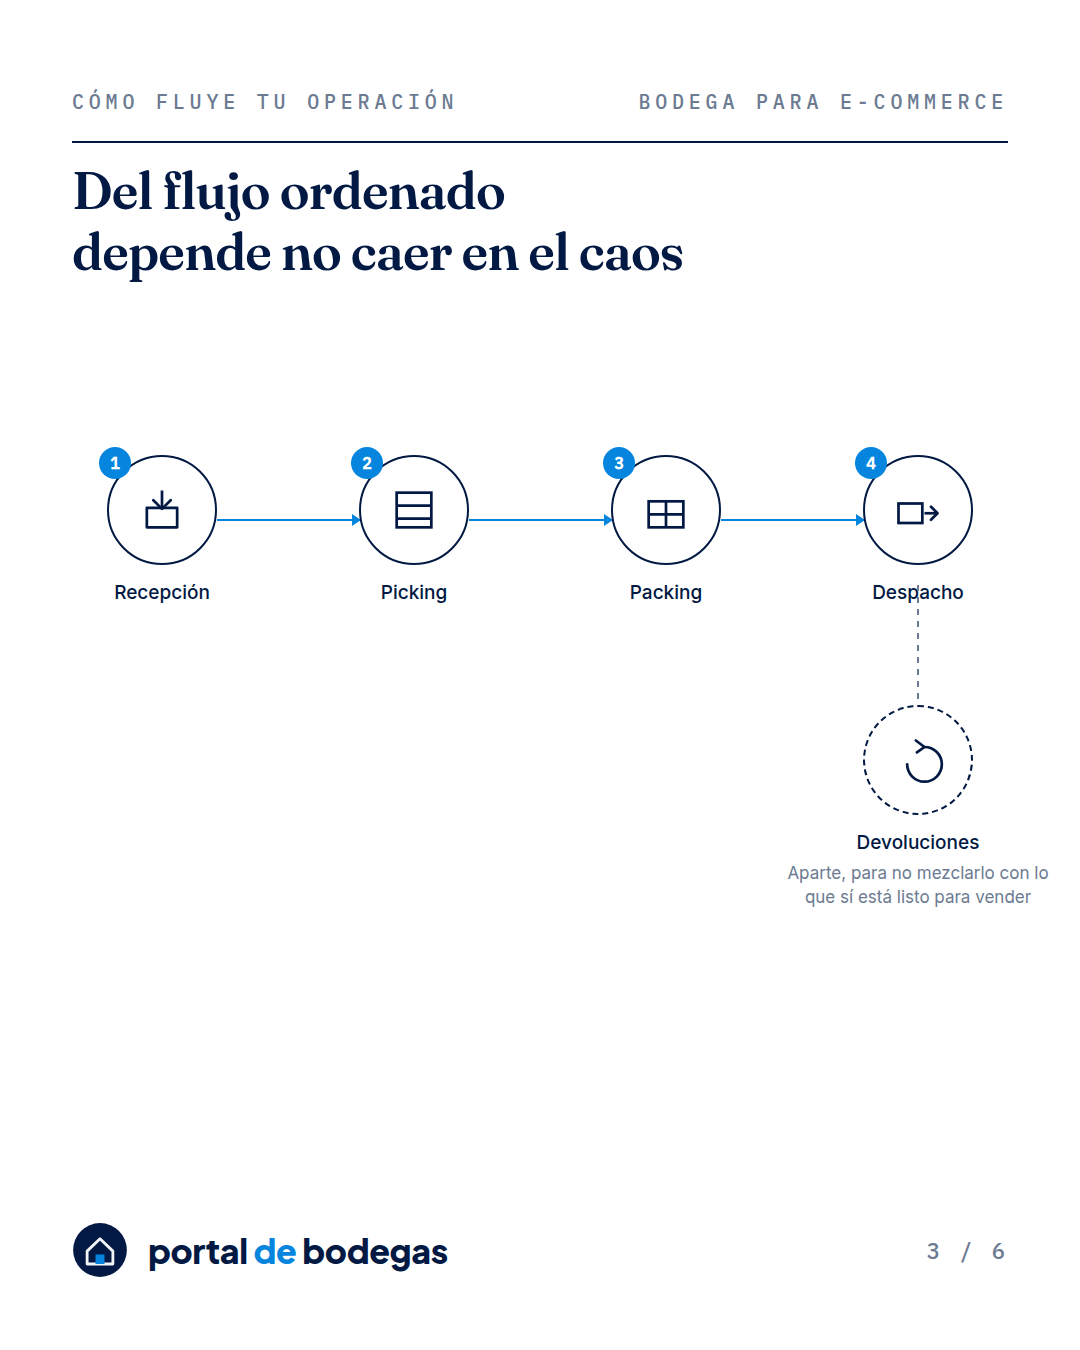
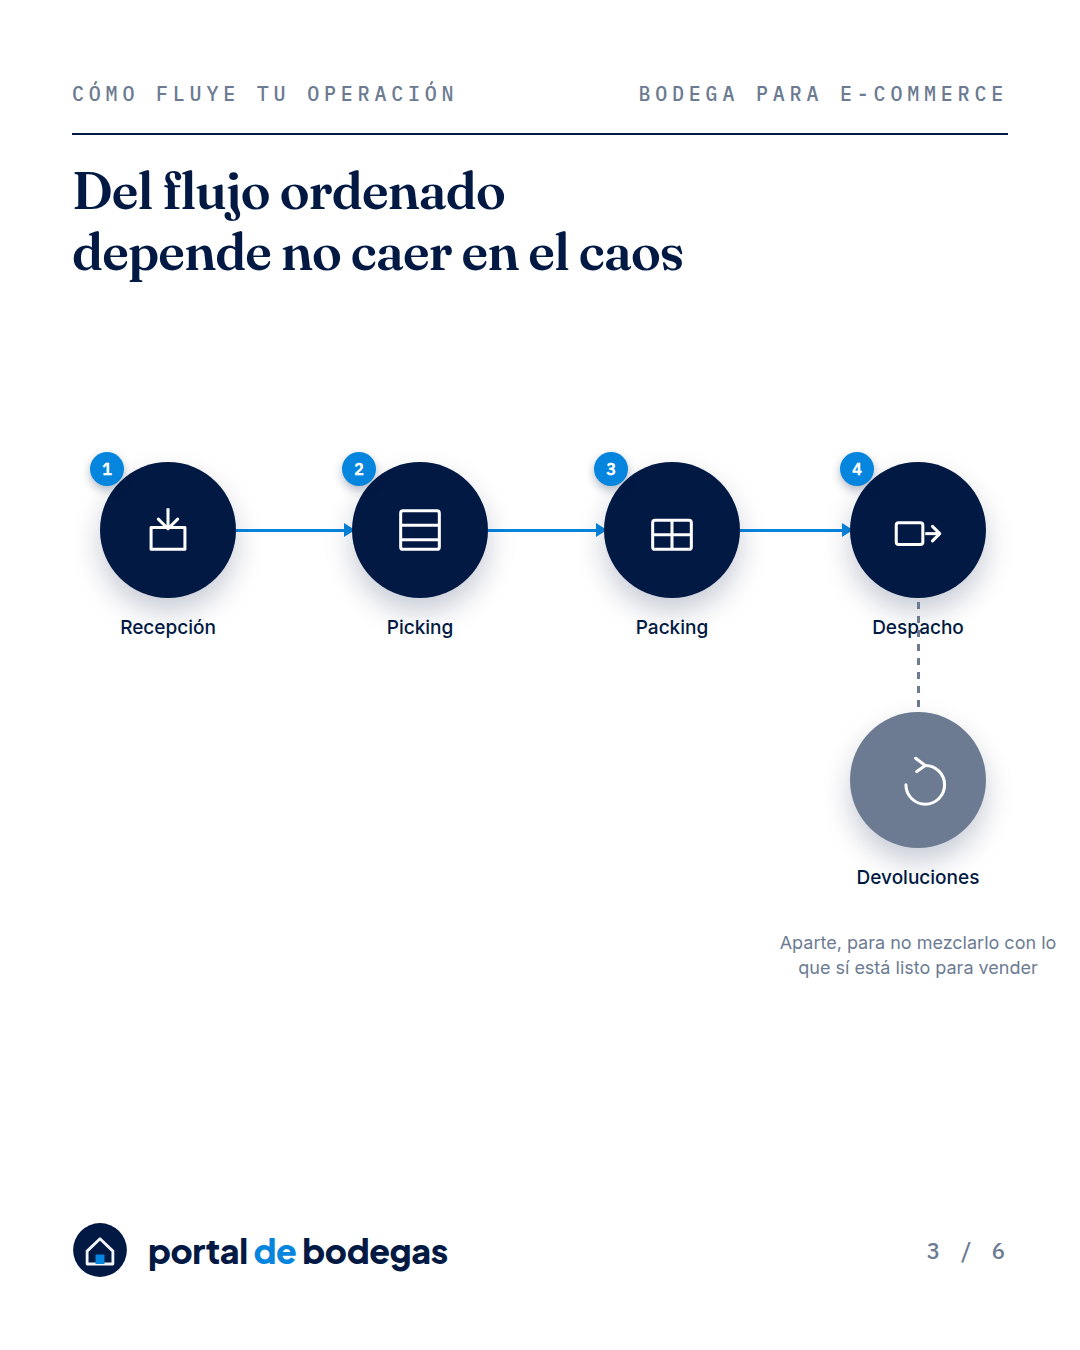
Mockup v2: círculos de color sólido en vez de contornos finos
El feedback fue que el v1 se veía "arcaico" y con demasiado blanco.
Fix: nodos e íconos ahora son círculos de color sólido con sombra
suave (mismo lenguaje del badge "VS" de marketing/versus) en vez de
contornos huecos; la tarjeta de capacidad pasa de recuadros punteados
a tarjetas con relleno; se agregan líneas conectoras verticales en la
slide de pasos para no dejar aire muerto entre filas.

Claude-Session: https://claude.ai/code/session_01W7a3UqdkMrKs5FYEeECdXB

diff --git a/marketing/mockups/ecommerce-set.js b/marketing/mockups/ecommerce-set.js
@@ -1,8 +1,8 @@
-// Mockup de dirección completo: "diagrama institucional" — fondo blanco,
-// nodos/figuras conectadas en vez de foto+scrim o pantalla partida.
-// Reutiliza el motivo de la slide 3 (ya aprobada) en el resto del carrusel
-// para que se vea como un solo sistema. Solo para feedback — no toca
-// marketing/guias/build.js todavía.
+// Mockup de dirección v2: mismo diagrama, pero con círculos de color
+// sólido (como el badge "VS" de marketing/versus) en vez de contornos
+// finos huecos — la v1 se leía como un esquema de manual viejo. También
+// se llenan los espacios vacíos: tarjetas con relleno en vez de recuadros
+// punteados, elementos más grandes, menos aire muerto.
 const { chromium } = require("playwright");
 const fs = require("fs");
 const path = require("path");
@@ -12,82 +12,99 @@ const CHROME =
   process.env.CHROME_PATH ||
   "/opt/pw-browsers/chromium-1194/chrome-linux/chrome";
 
-const icon = (d, size = 52) => `
+const icon = (d, size = 58) => `
 <svg width="${size}" height="${size}" viewBox="0 0 48 48" fill="none" style="flex:none">${d}</svg>`;
 
 const navy = C.navy;
+const W = "#fff";
+// Todos los íconos van en blanco: ahora viven sobre círculos de color
+// sólido, no sueltos sobre blanco.
 const ICONS = {
   recepcion: icon(`
-    <path d="M10 22 H38 V40 H10 Z" stroke="${navy}" stroke-width="2.5" stroke-linejoin="round"/>
-    <path d="M24 6 V22" stroke="${navy}" stroke-width="2.5"/>
-    <path d="M16 15 L24 23 L32 15" stroke="${navy}" stroke-width="2.5" stroke-linecap="round" stroke-linejoin="round"/>`),
+    <path d="M10 22 H38 V40 H10 Z" stroke="${W}" stroke-width="2.5" stroke-linejoin="round"/>
+    <path d="M24 6 V22" stroke="${W}" stroke-width="2.5"/>
+    <path d="M16 15 L24 23 L32 15" stroke="${W}" stroke-width="2.5" stroke-linecap="round" stroke-linejoin="round"/>`),
   picking: icon(`
-    <rect x="8" y="8" width="32" height="32" stroke="${navy}" stroke-width="2.5"/>
-    <line x1="8" y1="20" x2="40" y2="20" stroke="${navy}" stroke-width="2.5"/>
-    <line x1="8" y1="32" x2="40" y2="32" stroke="${navy}" stroke-width="2.5"/>`),
+    <rect x="8" y="8" width="32" height="32" rx="2" stroke="${W}" stroke-width="2.5"/>
+    <line x1="8" y1="20" x2="40" y2="20" stroke="${W}" stroke-width="2.5"/>
+    <line x1="8" y1="32" x2="40" y2="32" stroke="${W}" stroke-width="2.5"/>`),
   packing: icon(`
-    <rect x="8" y="16" width="32" height="24" stroke="${navy}" stroke-width="2.5"/>
-    <line x1="8" y1="28" x2="40" y2="28" stroke="${navy}" stroke-width="2.5"/>
-    <line x1="24" y1="16" x2="24" y2="40" stroke="${navy}" stroke-width="2.5"/>`),
+    <rect x="8" y="16" width="32" height="24" rx="2" stroke="${W}" stroke-width="2.5"/>
+    <line x1="8" y1="28" x2="40" y2="28" stroke="${W}" stroke-width="2.5"/>
+    <line x1="24" y1="16" x2="24" y2="40" stroke="${W}" stroke-width="2.5"/>`),
   despacho: icon(`
-    <rect x="6" y="18" width="22" height="18" stroke="${navy}" stroke-width="2.5"/>
-    <path d="M30 27 H42" stroke="${navy}" stroke-width="2.5"/>
-    <path d="M36 21 L42 27 L36 33" stroke="${navy}" stroke-width="2.5" stroke-linecap="round" stroke-linejoin="round"/>`),
+    <rect x="6" y="18" width="22" height="18" rx="2" stroke="${W}" stroke-width="2.5"/>
+    <path d="M30 27 H42" stroke="${W}" stroke-width="2.5"/>
+    <path d="M36 21 L42 27 L36 33" stroke="${W}" stroke-width="2.5" stroke-linecap="round" stroke-linejoin="round"/>`),
   devoluciones: icon(`
-    <path d="M30 12 A16 16 0 1 1 14 28" stroke="${navy}" stroke-width="2.5" fill="none" stroke-linecap="round"/>
-    <path d="M22 6 L30 12 L23 17" stroke="${navy}" stroke-width="2.5" stroke-linecap="round" stroke-linejoin="round"/>`),
-  // Guardar (estático): caja sellada, sin movimiento.
+    <path d="M30 12 A16 16 0 1 1 14 28" stroke="${W}" stroke-width="2.5" fill="none" stroke-linecap="round"/>
+    <path d="M22 6 L30 12 L23 17" stroke="${W}" stroke-width="2.5" stroke-linecap="round" stroke-linejoin="round"/>`),
   guardar: icon(`
-    <rect x="8" y="16" width="32" height="24" stroke="${C.slate}" stroke-width="2.5"/>
-    <line x1="8" y1="28" x2="40" y2="28" stroke="${C.slate}" stroke-width="2.5"/>`, 64),
-  // Operar (dinámico): entra y sale de la caja.
+    <rect x="8" y="16" width="32" height="24" rx="2" stroke="${W}" stroke-width="2.5"/>
+    <line x1="8" y1="28" x2="40" y2="28" stroke="${W}" stroke-width="2.5"/>`, 66),
   operar: icon(`
-    <rect x="16" y="16" width="16" height="16" stroke="${navy}" stroke-width="2.5"/>
-    <path d="M2 24 H14" stroke="${navy}" stroke-width="2.5"/>
-    <path d="M8 19 L14 24 L8 29" stroke="${navy}" stroke-width="2.5" stroke-linecap="round" stroke-linejoin="round"/>
-    <path d="M34 24 H46" stroke="${navy}" stroke-width="2.5"/>
-    <path d="M40 19 L46 24 L40 29" stroke="${navy}" stroke-width="2.5" stroke-linecap="round" stroke-linejoin="round"/>`, 64),
+    <rect x="16" y="16" width="16" height="16" rx="2" stroke="${W}" stroke-width="2.5"/>
+    <path d="M2 24 H14" stroke="${W}" stroke-width="2.5"/>
+    <path d="M8 19 L14 24 L8 29" stroke="${W}" stroke-width="2.5" stroke-linecap="round" stroke-linejoin="round"/>
+    <path d="M34 24 H46" stroke="${W}" stroke-width="2.5"/>
+    <path d="M40 19 L46 24 L40 29" stroke="${W}" stroke-width="2.5" stroke-linecap="round" stroke-linejoin="round"/>`, 66),
   calendario: icon(`
-    <rect x="7" y="10" width="34" height="30" stroke="${navy}" stroke-width="2.5"/>
-    <line x1="7" y1="18" x2="41" y2="18" stroke="${navy}" stroke-width="2.5"/>
-    <line x1="15" y1="6" x2="15" y2="14" stroke="${navy}" stroke-width="2.5" stroke-linecap="round"/>
-    <line x1="33" y1="6" x2="33" y2="14" stroke="${navy}" stroke-width="2.5" stroke-linecap="round"/>
-    <rect x="14" y="24" width="6" height="6" fill="${C.blue}"/>`),
+    <rect x="7" y="10" width="34" height="30" rx="2" stroke="${W}" stroke-width="2.5"/>
+    <line x1="7" y1="18" x2="41" y2="18" stroke="${W}" stroke-width="2.5"/>
+    <line x1="15" y1="6" x2="15" y2="14" stroke="${W}" stroke-width="2.5" stroke-linecap="round"/>
+    <line x1="33" y1="6" x2="33" y2="14" stroke="${W}" stroke-width="2.5" stroke-linecap="round"/>
+    <rect x="14" y="24" width="6" height="6" fill="${W}"/>`),
   reloj: icon(`
-    <circle cx="24" cy="24" r="17" stroke="${navy}" stroke-width="2.5"/>
-    <path d="M24 14 V24 L32 29" stroke="${navy}" stroke-width="2.5" stroke-linecap="round" stroke-linejoin="round"/>`),
+    <circle cx="24" cy="24" r="17" stroke="${W}" stroke-width="2.5"/>
+    <path d="M24 14 V24 L32 29" stroke="${W}" stroke-width="2.5" stroke-linecap="round" stroke-linejoin="round"/>`),
   expandir: icon(`
-    <rect x="16" y="16" width="16" height="16" stroke="${navy}" stroke-width="2.5"/>
-    <path d="M30 18 L42 6 M42 6 H33 M42 6 V15" stroke="${C.blue}" stroke-width="2.5" stroke-linecap="round" stroke-linejoin="round"/>
-    <path d="M18 30 L6 42 M6 42 H15 M6 42 V33" stroke="${C.blue}" stroke-width="2.5" stroke-linecap="round" stroke-linejoin="round"/>`),
+    <path d="M30 18 L42 6 M42 6 H33 M42 6 V15" stroke="${W}" stroke-width="2.5" stroke-linecap="round" stroke-linejoin="round"/>
+    <path d="M18 30 L6 42 M6 42 H15 M6 42 V33" stroke="${W}" stroke-width="2.5" stroke-linecap="round" stroke-linejoin="round"/>`, 40),
 };
 
-// ── Encabezado institucional (igual que slideList en guias/build.js) ────────
 const header = (kicker, name) => `
-<div style="position:absolute;left:72px;right:72px;top:88px">
+<div style="position:absolute;left:72px;right:72px;top:80px">
   <div style="display:flex;justify-content:space-between;align-items:baseline">
     <div class="eyebrow" style="color:${C.slate};font-size:20px">${kicker}</div>
     <div class="eyebrow" style="color:${C.slate};font-size:20px">${name}</div>
   </div>
-  <div style="height:2px;background:${C.navy};margin-top:26px"></div>
+  <div style="height:2px;background:${navy};margin-top:26px"></div>
 </div>`;
+
+// Círculo de color sólido con sombra suave — el mismo lenguaje del badge
+// "VS" (marketing/versus), aplicado a cada nodo del diagrama.
+const circle = (size, fill, content, badge) => `
+<div style="width:${size}px;height:${size}px;border-radius:50%;background:${fill};
+  display:flex;align-items:center;justify-content:center;position:relative;flex:none;
+  box-shadow:0 14px 28px rgba(1,25,67,.22)">
+  ${badge || ""}
+  ${content}
+</div>`;
+
+const numberBadge = (n) => `
+<div style="position:absolute;top:-10px;left:-10px;width:34px;height:34px;border-radius:50%;
+  background:${C.blue};color:#fff;font-family:'IBM Plex Mono',monospace;font-weight:700;
+  font-size:16px;display:flex;align-items:center;justify-content:center;
+  box-shadow:0 4px 10px rgba(1,25,67,.3)">${n}</div>`;
 
 const NAME = "Bodega para e-commerce";
 
-// 1 — Portada: red de nodos abstracta como marca gráfica, sin foto
+// 1 — Portada: marca gráfica de nodos, con relleno de color
 const slideCover = () => shell(`
 <div class="slide" style="background:#fff">
   <div style="position:absolute;top:48px;right:48px;border:2px solid ${navy};color:${navy};
     font-family:'IBM Plex Mono',monospace;font-weight:500;font-size:19px;letter-spacing:.18em;
     padding:13px 24px">Desliza &rarr;</div>
 
-  <div style="position:absolute;left:72px;top:430px;width:170px;height:170px;border-radius:50%;
-    border:2.5px solid ${C.border}"></div>
-  <div style="position:absolute;left:146px;top:504px;width:22px;height:22px;border-radius:50%;
-    background:${C.blue}"></div>
-  <div style="position:absolute;left:260px;top:514px;width:200px;height:2px;background:${C.blue}"></div>
-  <div style="position:absolute;left:450px;top:504px;width:22px;height:22px;border-radius:50%;
-    background:${navy}"></div>
+  <div style="position:absolute;left:72px;top:330px;width:230px;height:230px;border-radius:50%;
+    background:rgba(6,133,222,.08)"></div>
+  <div style="position:absolute;left:150px;top:408px">
+    ${circle(74, C.blue, "")}
+  </div>
+  <div style="position:absolute;left:290px;top:437px;width:170px;height:3px;background:${C.blue}"></div>
+  <div style="position:absolute;left:460px;top:408px">
+    ${circle(74, navy, "")}
+  </div>
 
   <div style="position:absolute;left:72px;right:72px;top:800px">
     <div class="eyebrow" style="color:${C.slate};font-size:21px">Gu&iacute;a</div>
@@ -100,53 +117,46 @@ const slideCover = () => shell(`
   ${brandRow(false, "1 / 6")}
 </div>`);
 
-// 2 — Concepto: guardar (estático) vs. operar (flujo)
+// 2 — Concepto: guardar (estático, muted) vs. operar (flujo, navy)
 const slideConcept = () => shell(`
 <div class="slide" style="background:#fff">
   ${header("Por qu&eacute; es distinto", NAME)}
-  <div style="position:absolute;left:72px;right:72px;top:180px">
-    <h1 style="color:${navy};font-size:56px;line-height:1.18">No es guardar cosas,<br>es operar un negocio</h1>
+  <div style="position:absolute;left:72px;right:72px;top:190px">
+    <h1 style="color:${navy};font-size:58px;line-height:1.18">No es guardar cosas,<br>es operar un negocio</h1>
   </div>
 
-  <div style="position:absolute;left:150px;top:560px;width:300px;text-align:center">
-    ${ICONS.guardar}
-    <div style="font-family:Inter,sans-serif;font-weight:500;font-size:23px;color:${C.slate};margin-top:28px">Guardar cosas</div>
+  <div style="position:absolute;left:140px;top:580px;width:320px;text-align:center">
+    <div style="display:flex;justify-content:center">${circle(160, C.slate, ICONS.guardar)}</div>
+    <div style="font-family:Inter,sans-serif;font-weight:500;font-size:25px;color:${C.slate};margin-top:34px">Guardar cosas</div>
   </div>
-  <div style="position:absolute;left:510px;top:605px;font-family:Fraunces,serif;font-size:40px;color:${C.border}">/</div>
-  <div style="position:absolute;left:630px;top:560px;width:300px;text-align:center">
-    ${ICONS.operar}
-    <div style="font-family:Inter,sans-serif;font-weight:600;font-size:23px;color:${navy};margin-top:28px">Operar un negocio</div>
+  <div style="position:absolute;left:532px;top:650px;width:16px;height:16px;border-radius:50%;background:${C.border}"></div>
+  <div style="position:absolute;left:620px;top:580px;width:320px;text-align:center">
+    <div style="display:flex;justify-content:center">${circle(160, navy, ICONS.operar)}</div>
+    <div style="font-family:Inter,sans-serif;font-weight:600;font-size:25px;color:${navy};margin-top:34px">Operar un negocio</div>
   </div>
 
-  <div style="position:absolute;left:72px;right:72px;top:830px;text-align:center">
-    <div style="font-family:Inter,sans-serif;font-weight:400;font-size:28px;color:${C.slate};line-height:1.5">
-      Entra inventario, pero sobre todo sale &mdash; pedido por pedido, todos los d&iacute;as.
+  <div style="position:absolute;left:72px;right:72px;top:920px;text-align:center">
+    <div style="font-family:Inter,sans-serif;font-weight:400;font-size:29px;color:${C.slate};line-height:1.5">
+      Entra inventario, pero sobre todo sale &mdash; pedido por<br>pedido, todos los d&iacute;as.
     </div>
   </div>
   ${brandRow(false, "2 / 6")}
 </div>`);
 
-// 3 — Flujo (ya aprobada) — ver marketing/mockups/flujo.js
-const node = (n, key, label, x, y, dashed) => `
-<div style="position:absolute;left:${x - 65}px;top:${y - 65}px;width:130px;text-align:center">
-  <div style="width:110px;height:110px;margin:0 auto;border-radius:50%;
-    border:${dashed ? "2.5px dashed" : "2.5px solid"} ${navy};
-    display:flex;align-items:center;justify-content:center;position:relative;background:#fff">
-    ${n ? `<div style="position:absolute;top:-10px;left:-10px;width:32px;height:32px;border-radius:50%;
-      background:${C.blue};color:#fff;font-family:'IBM Plex Mono',monospace;font-weight:700;
-      font-size:16px;display:flex;align-items:center;justify-content:center">${n}</div>` : ""}
-    ${ICONS[key]}
-  </div>
-  <div style="font-family:Inter,sans-serif;font-weight:500;font-size:19px;color:${navy};margin-top:16px">${label}</div>
+// 3 — Flujo (dirección aprobada, con el nuevo relleno de color)
+const node = (n, key, label, x, y, muted) => `
+<div style="position:absolute;left:${x - 68}px;top:${y - 68}px;width:136px;text-align:center">
+  ${circle(136, muted ? C.slate : navy, ICONS[key], n ? numberBadge(n) : "")}
+  <div style="font-family:Inter,sans-serif;font-weight:500;font-size:19px;color:${navy};margin-top:18px">${label}</div>
 </div>`;
 
 const arrow = (x1, x2, y) => `
-<div style="position:absolute;left:${x1}px;top:${y - 1}px;width:${x2 - x1}px;height:2px;background:${C.blue}"></div>
-<div style="position:absolute;left:${x2 - 7}px;top:${y - 6}px;width:0;height:0;
-  border-top:6px solid transparent;border-bottom:6px solid transparent;border-left:9px solid ${C.blue}"></div>`;
+<div style="position:absolute;left:${x1}px;top:${y - 1.5}px;width:${x2 - x1}px;height:3px;background:${C.blue}"></div>
+<div style="position:absolute;left:${x2 - 8}px;top:${y - 7}px;width:0;height:0;
+  border-top:7px solid transparent;border-bottom:7px solid transparent;border-left:11px solid ${C.blue}"></div>`;
 
-const FLOW_Y = 520;
-const FLOW_X = [162, 414, 666, 918];
+const FLOW_Y = 530;
+const FLOW_X = [168, 420, 672, 918];
 
 const slideFlow = () => shell(`
 <div class="slide" style="background:#fff">
@@ -155,40 +165,43 @@ const slideFlow = () => shell(`
     <h1 style="color:${navy};font-size:52px;line-height:1.18">Del flujo ordenado<br>depende no caer en el caos</h1>
   </div>
 
-  ${arrow(FLOW_X[0] + 55, FLOW_X[1] - 55, FLOW_Y)}
-  ${arrow(FLOW_X[1] + 55, FLOW_X[2] - 55, FLOW_Y)}
-  ${arrow(FLOW_X[2] + 55, FLOW_X[3] - 55, FLOW_Y)}
+  ${arrow(FLOW_X[0] + 68, FLOW_X[1] - 68, FLOW_Y)}
+  ${arrow(FLOW_X[1] + 68, FLOW_X[2] - 68, FLOW_Y)}
+  ${arrow(FLOW_X[2] + 68, FLOW_X[3] - 68, FLOW_Y)}
 
   ${node(1, "recepcion", "Recepci&oacute;n", FLOW_X[0], FLOW_Y)}
   ${node(2, "picking", "Picking", FLOW_X[1], FLOW_Y)}
   ${node(3, "packing", "Packing", FLOW_X[2], FLOW_Y)}
   ${node(4, "despacho", "Despacho", FLOW_X[3], FLOW_Y)}
 
-  <div style="position:absolute;left:${FLOW_X[3] - 1}px;top:${FLOW_Y + 65}px;width:2px;height:120px;
-    background:repeating-linear-gradient(to bottom, ${C.slate} 0 6px, transparent 6px 12px)"></div>
+  <div style="position:absolute;left:${FLOW_X[3] - 1.5}px;top:${FLOW_Y + 72}px;width:3px;height:110px;
+    background:repeating-linear-gradient(to bottom, ${C.slate} 0 7px, transparent 7px 14px)"></div>
   ${node(null, "devoluciones", "Devoluciones", FLOW_X[3], FLOW_Y + 250, true)}
-  <div style="position:absolute;left:${FLOW_X[3] - 140}px;top:${FLOW_Y + 342}px;width:280px;text-align:center">
-    <div style="font-family:Inter,sans-serif;font-weight:400;font-size:17px;color:${C.slate};line-height:1.4">
+  <div style="position:absolute;left:${FLOW_X[3] - 150}px;top:${FLOW_Y + 400}px;width:300px;text-align:center">
+    <div style="font-family:Inter,sans-serif;font-weight:400;font-size:18px;color:${C.slate};line-height:1.4">
       Aparte, para no mezclarlo con lo que s&iacute; est&aacute; listo para vender
     </div>
   </div>
   ${brandRow(false, "3 / 6")}
 </div>`);
 
-// 4 — Pasos: temporada alta, en vez del navy/numerado se usa la misma
-// familia de nodos pero apilados verticalmente (distinto del flujo
-// horizontal de la slide 3: acá es secuencia de razonamiento, no de proceso)
+// 4 — Pasos: temporada alta, mismos nodos, apilados en vertical con una
+// línea que los conecta (para que no quede aire muerto entre filas)
+const STEP_X = 128;
+const STEP_Y = [480, 686, 892];
+
 const stepRow = (n, key, text, y) => `
-<div style="position:absolute;left:72px;top:${y}px;width:936px;display:flex;align-items:center;gap:32px">
-  <div style="width:84px;height:84px;border-radius:50%;border:2.5px solid ${navy};flex:none;
-    display:flex;align-items:center;justify-content:center;position:relative;background:#fff">
-    <div style="position:absolute;top:-8px;left:-8px;width:28px;height:28px;border-radius:50%;
-      background:${C.blue};color:#fff;font-family:'IBM Plex Mono',monospace;font-weight:700;
-      font-size:14px;display:flex;align-items:center;justify-content:center">${n}</div>
-    ${ICONS[key]}
-  </div>
-  <div style="font-family:Inter,sans-serif;font-weight:400;font-size:26px;color:${navy};line-height:1.35">${text}</div>
-</div>`;
+<div style="position:absolute;left:${STEP_X - 58}px;top:${y - 58}px">
+  ${circle(116, navy, icon_scaled(key), numberBadge(n))}
+</div>
+<div style="position:absolute;left:${STEP_X + 90}px;top:${y - 36}px;width:780px;
+  font-family:Inter,sans-serif;font-weight:400;font-size:27px;color:${navy};line-height:1.4">${text}</div>`;
+
+// íconos de pasos a tamaño levemente menor para que respiren dentro del
+// círculo de 116px
+function icon_scaled(key) {
+  return ICONS[key].replace(/width="58" height="58"/, 'width="50" height="50"');
+}
 
 const slideSteps = () => shell(`
 <div class="slide" style="background:#fff">
@@ -196,34 +209,36 @@ const slideSteps = () => shell(`
   <div style="position:absolute;left:72px;right:72px;top:160px">
     <h1 style="color:${navy};font-size:52px;line-height:1.18">La flexibilidad pesa<br>m&aacute;s que el precio</h1>
   </div>
-  ${stepRow(1, "calendario", "CyberDay, Black Friday y Navidad<br>multiplican el despacho", 480)}
-  ${stepRow(2, "reloj", "Dimensionar solo para el d&iacute;a a d&iacute;a te deja<br>corriendo detr&aacute;s del inventario", 630)}
-  ${stepRow(3, "expandir", "Ampliar sin mudarte vale m&aacute;s que<br>ahorrar unas UF por m&sup2;", 780)}
+  <div style="position:absolute;left:${STEP_X - 1.5}px;top:${STEP_Y[0] + 58}px;width:3px;height:${STEP_Y[2] - STEP_Y[0] - 116}px;
+    background:${C.border}"></div>
+  ${stepRow(1, "calendario", "CyberDay, Black Friday y Navidad<br>multiplican el despacho", STEP_Y[0])}
+  ${stepRow(2, "reloj", "Dimensionar solo para el d&iacute;a a d&iacute;a te deja<br>corriendo detr&aacute;s del inventario", STEP_Y[1])}
+  ${stepRow(3, "expandir", "Ampliar sin mudarte vale m&aacute;s que<br>ahorrar unas UF por m&sup2;", STEP_Y[2])}
   ${brandRow(false, "4 / 6")}
 </div>`);
 
-// 5 — Capacidad: dos recuadros anidados (hoy / ampliable), sin inventar cifras
+// 5 — Capacidad: tarjetas con relleno (no recuadros punteados) — "hoy"
+// sólido dentro de "mañana" con tinte, sin inventar cifras de m²
 const slideCapacity = () => shell(`
 <div class="slide" style="background:#fff">
   ${header("Portal de Bodegas", NAME)}
-  <div style="position:absolute;left:72px;right:72px;top:180px">
-    <h1 style="color:${navy};font-size:56px;line-height:1.18">Ampliable<br>en el mismo recinto</h1>
+  <div style="position:absolute;left:72px;right:72px;top:190px">
+    <h1 style="color:${navy};font-size:58px;line-height:1.18">Ampliable<br>en el mismo recinto</h1>
   </div>
 
-  <div style="position:absolute;left:290px;top:560px;width:500px;height:320px;
-    border:2.5px dashed ${C.slate};display:flex;align-items:flex-start;justify-content:flex-start">
-    <div style="margin:16px;font-family:'IBM Plex Mono',monospace;font-size:17px;letter-spacing:.14em;
-      color:${C.slate};text-transform:uppercase">Ma&ntilde;ana</div>
+  <div style="position:absolute;left:190px;top:560px;width:700px;height:420px;border-radius:28px;
+    background:rgba(6,133,222,.07)">
+    <div style="margin:28px 32px;font-family:'IBM Plex Mono',monospace;font-weight:600;font-size:18px;
+      letter-spacing:.16em;color:${C.blue};text-transform:uppercase">Ma&ntilde;ana</div>
+    <div style="position:absolute;right:32px;bottom:28px">${circle(60, C.blue, icon(`<path d="M30 18 L42 6 M42 6 H33 M42 6 V15" stroke="#fff" stroke-width="2.5" stroke-linecap="round" stroke-linejoin="round"/><path d="M18 30 L6 42 M6 42 H15 M6 42 V33" stroke="#fff" stroke-width="2.5" stroke-linecap="round" stroke-linejoin="round"/>`, 34))}</div>
   </div>
-  <div style="position:absolute;left:340px;top:650px;width:260px;height:160px;
-    border:2.5px solid ${navy};background:#fff;display:flex;align-items:flex-start;justify-content:flex-start">
-    <div style="margin:14px;font-family:'IBM Plex Mono',monospace;font-size:17px;letter-spacing:.14em;
-      color:${navy};text-transform:uppercase">Hoy</div>
+  <div style="position:absolute;left:250px;top:660px;width:360px;height:220px;border-radius:20px;
+    background:${navy};box-shadow:0 20px 40px rgba(1,25,67,.25)">
+    <div style="margin:26px 30px;font-family:'IBM Plex Mono',monospace;font-weight:600;font-size:18px;
+      letter-spacing:.16em;color:#fff;text-transform:uppercase">Hoy</div>
   </div>
-  <div style="position:absolute;left:470px;top:720px;width:0;height:0;
-    border-top:10px solid transparent;border-bottom:10px solid transparent;border-left:14px solid ${C.blue}"></div>
 
-  <div style="position:absolute;left:72px;right:72px;top:930px;text-align:center">
+  <div style="position:absolute;left:72px;right:72px;top:1040px;text-align:center">
     <div style="font-family:Inter,sans-serif;font-weight:400;font-size:28px;color:${C.slate};line-height:1.5">
       Parte acotado y crece sin cambiar de direcci&oacute;n<br>cuando el volumen lo pida.
     </div>
@@ -231,8 +246,7 @@ const slideCapacity = () => shell(`
   ${brandRow(false, "5 / 6")}
 </div>`);
 
-// 6 — Cierre: navy + CTA, igual al resto de la serie (contraste con las 5
-// slides blancas = la "llegada" después del recorrido informativo)
+// 6 — Cierre: navy + CTA, igual al resto de la serie
 const slideCta = () => shell(`
 <div class="slide">
   <div style="position:absolute;inset:0;background:
